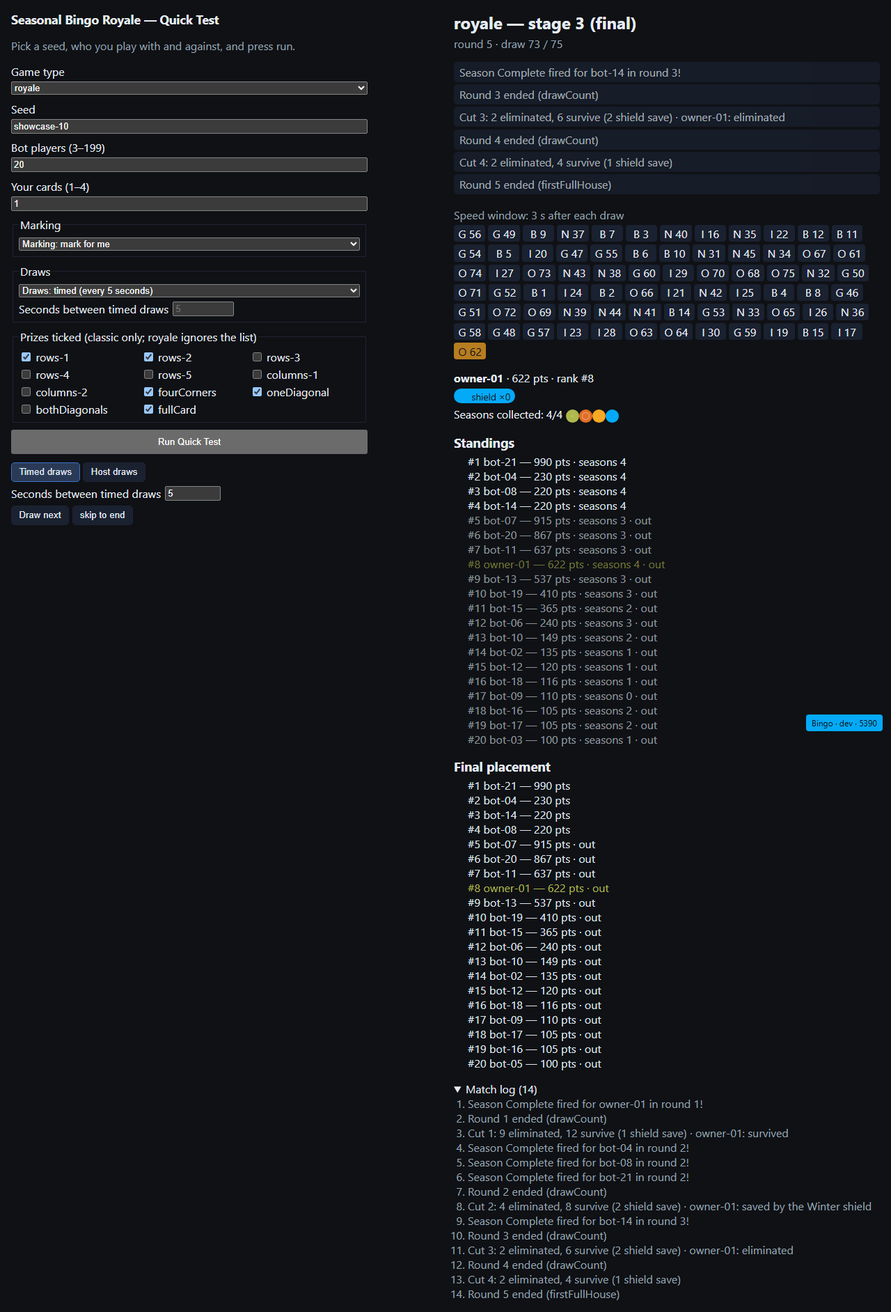
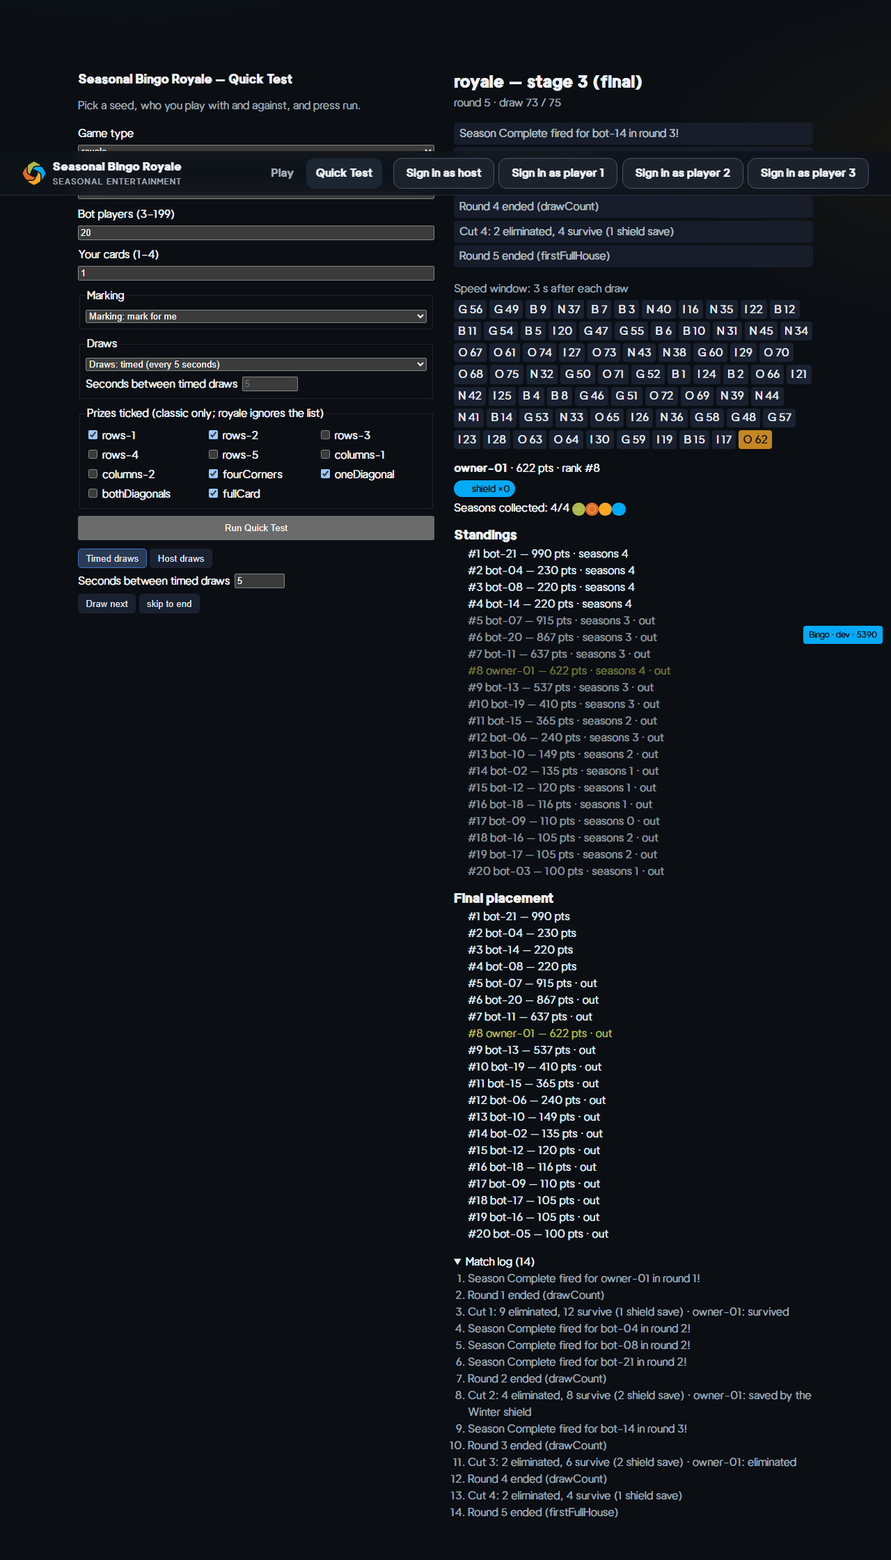
test: real-game play-through green (6 matches), reconnect test, Quick Test route; sheet
The real-game acceptance play-through passed for every game type with
timed and host draws: every screen consistent on every draw, cuts against
server points, ranks against the final placement, a fresh match after
each one. Screenshots in reports/screens/real-game/. The smoke test now
covers reconnect and resync. The Quick Test specs open #/quicktest (the
app shell's lobby is at /). Backlog part one lists the draft's remainder;
the morning sheet has every piece with evidence.

diff --git a/e2e/realGame.spec.ts b/e2e/realGame.spec.ts
@@ -8,7 +8,8 @@
  *                 draws; player 1 joins from the lobby and waits in the waiting room; the
  *                 host fills the match with bots and starts it; after the countdown both
  *                 screens show the same current number for every Draw next, and the player
- *                 sees the arena with standings.
+ *                 sees the arena with standings; offline for two draws, the player's screen
+ *                 catches up after reconnecting and keeps its marks.
  * Depends on:     @playwright/test, ./realGame
  * Spec:           docs/spec/12-testing-strategy.md §4 (journey 1, draft); docs/spec/15-implementation-plan.md WP-12, WP-13
  */
@@ -53,4 +54,25 @@ test('host and player share one live match', async ({ browser }) => {
     seen.push((await currentItem(player)) ?? -1);
   }
   await expect(player.getByTestId('standings').locator('li')).toHaveCount(6);
+
+  // Reconnect and resync (06 §1, §4): the player drops off while the host draws on; back
+  // online, the screen catches up with the same numbers and keeps the marks it had.
+  const markedBefore = await player
+    .locator('[data-testid^="owner-cell-"][data-marked="true"]')
+    .count();
+  await player.context().setOffline(true);
+  await drawNext(host);
+  await drawNext(host);
+  await player.context().setOffline(false);
+  const hostTicker = () => host.getByTestId('draw-ticker').locator(':scope > *').count();
+  await expect
+    .poll(async () => player.getByTestId('draw-ticker').locator(':scope > *').count(), {
+      timeout: 30_000,
+    })
+    .toBe(await hostTicker());
+  expect(await currentItem(player)).toBe(await currentItem(host));
+  const markedAfter = await player
+    .locator('[data-testid^="owner-cell-"][data-marked="true"]')
+    .count();
+  expect(markedAfter).toBeGreaterThanOrEqual(markedBefore);
 });

diff --git a/e2e/quickTest.ts b/e2e/quickTest.ts
@@ -45,7 +45,8 @@ const CATALOGUE = [
 ];
 
 export async function startRun(page: Page, settings: RunSettings): Promise<void> {
-  await page.goto('/');
+  // The Quick Test lives at #/quicktest in the app shell (development builds).
+  await page.goto('/#/quicktest');
   await page.getByTestId('game-type').selectOption(settings.gameType);
   await page.getByTestId('seed').fill(settings.seed);
   await page.getByTestId('bot-count').fill(String(settings.bots));

diff --git a/reports/night-2026-10-21.md b/reports/night-2026-10-21.md
@@ -67,37 +67,112 @@ experience, 8 host experience.
 | Intents with ack: match.watch / unwatch, mark, draw.next, draw.setMode (creator with match.manage)                            | › same tests: a player's draw.next is FORBIDDEN, the host's is accepted, a player's tap over the socket is accepted and the room receives `cellMarked`                                                                                                                                                               |
 | Replay protection (strictly growing seq), limits: 10 intents/s, marks 4/s, draw.next 2/s                                      | `apps/server/src/realtime/intents.ts`; › "drops a repeated seq, limits marks to 4 a second and watches at most 3 matches" — the red check for the replay rule was refused by the session's automatic permission check (it treats removing a security check as weakening security), so only the green run is evidence |
 
+### Piece 6 — design system and app shell (`feat/real-game-draft`)
+
+| Item                                                                                                                                                                                                                                   | Evidence                                                                                                                                                       |
+| -------------------------------------------------------------------------------------------------------------------------------------------------------------------------------------------------------------------------------------- | -------------------------------------------------------------------------------------------------------------------------------------------------------------- |
+| Tokens in `packages/ui` with the Seasonal Entertainment website's names and values (its `tokens.css` and `DESIGN.md`), dark default, light set, season colours, radius 12/20 px, hit target 44 px; the card as the hero (card colours) | `packages/ui/src/tokens.css`, `base.css`                                                                                                                       |
+| Luxora Grotesk from `assets/fonts`; the original season icons (unchanged files)                                                                                                                                                        | `packages/ui/src/fonts.css`; `apps/web/src/seasonIcons.ts`                                                                                                     |
+| WCAG AA contrast in both themes, text on season colours, card ink 7:1                                                                                                                                                                  | `apps/web/src/designTokens.test.ts` (red with a low-contrast muted colour)                                                                                     |
+| prefers-reduced-motion switches every animation off; key-moment animations (draw, mark, lift, season burst, Season Complete, win)                                                                                                      | `packages/ui/src/motion.css`; `designTokens.test.ts` › "switches every animation off under prefers-reduced-motion"                                             |
+| App shell: top bar, navigation (Play, Host a match with `match.create`, Quick Test in development), account, quick sign-in buttons "Sign in as host" / "Sign in as player 1/2/3" only in development                                   | `apps/web/src/shell/*`; `shell.test.tsx` › "offers the quick sign-in only in development" (red when always shown), "shows Host a match only with match.create" |
+| Responsive from phone width: player 3 plays at 390×844 in the real-game play-through                                                                                                                                                   | `reports/screens/real-game/*-player-3.jpg`                                                                                                                     |
+
+### Piece 7 — the player experience (`feat/real-game-draft`)
+
+| Item                                                                                                                                                                                                                                                                                          | Evidence                                                                                                                 |
+| --------------------------------------------------------------------------------------------------------------------------------------------------------------------------------------------------------------------------------------------------------------------------------------------- | ------------------------------------------------------------------------------------------------------------------------ |
+| Reuse: the live screens fold the server's view with the Quick Test's playback logic, card grid (B I N G O, sorted columns, season icons), ticker, standings, prize list, cut screen, final placement; the server's state route returns the Quick Test's view shape (shared `buildClientView`) | `apps/server/src/view/clientView.ts`; `apps/web/src/game/MatchScreen.tsx`                                                |
+| Lobby, join, waiting room with countdown                                                                                                                                                                                                                                                      | `apps/web/src/game/Lobby.tsx`, `WaitingRoom.tsx`; `e2e/realGame.spec.ts` › "host and player share one live match"        |
+| Live match: current number large with letter, recent numbers, own cards, taps with the speed window bar and feedback, missed-number rule as created, own score, rank, effects, seasons, shield, standings (active first), prizes for classic types, cut screen, spectator note, final ranking | `e2e/acceptance/realGame.spec.ts` (6 matches, see below); `apps/web/src/game/liveGame.test.tsx` (card refusals, intents) |
+| Reconnect and resync without losing marks                                                                                                                                                                                                                                                     | `e2e/realGame.spec.ts` (offline for two draws: the screen catches up, marks kept)                                        |
+| Fresh state: nothing of a previous match survives                                                                                                                                                                                                                                             | real-game play-through: a second match right after each match starts with a clean card, 0 points, no cut screen          |
+
+### Piece 8 — the host experience (`feat/real-game-draft`)
+
+| Item                                                                                                                                                                                                                                                | Evidence                                                                                                                                                                                                                 |
+| --------------------------------------------------------------------------------------------------------------------------------------------------------------------------------------------------------------------------------------------------- | ------------------------------------------------------------------------------------------------------------------------------------------------------------------------------------------------------------------------ |
+| Create a match from a published default ruleset: game type, prizes (defaults ticked), draws timed with seconds or host, missed numbers after N seconds or left open, leaderboard switch, max players, start rule (host starts, 10-second countdown) | `apps/web/src/host/CreateMatch.tsx` (the Quick Test's draw and missed-number fields reused); play-through creates every game type through this form                                                                      |
+| Lobby view with joined players, "Fill with N bots" (development), Start                                                                                                                                                                             | `apps/web/src/host/HostConsole.tsx`; play-through                                                                                                                                                                        |
+| Live console: big Draw next (Space key), disabled while a window is open or a press is pending; timed/host switch and seconds at any time; current and recent numbers; standings; prizes; cut results in the match log; abort with reason           | `HostDrawControls.tsx`; `liveGame.test.tsx` › "is disabled right after a press until the new draw has arrived" (red without the guard); the royale timed run switches mid-match; every fresh-state match ends with Abort |
+| Pause                                                                                                                                                                                                                                               | applies to asynchronous matches only (11 §3.2); realtime draft has none — backlog                                                                                                                                        |
+
+### Real-game acceptance play-through (all green, 6 matches, 52.5 min)
+
+Host plus players 1–3 (player 3 at 390×844), 20 players with bots, fixed per run. On every draw every player screen showed the host's number, each player's points equalled their standings row, no mark sat on an undrawn number, and the missed-number rule held; at the end every cut matched server points and every rank equalled the final place; a fresh match followed each one.
+
+| Match                                              | Draws | Cuts checked | Notes                                                                                                    |
+| -------------------------------------------------- | ----- | ------------ | -------------------------------------------------------------------------------------------------------- |
+| royale, timed 4 s, switches to host draws and back | 228   | 4            | missed numbers reached the screen 3.3–4.8 s after the draw (server marks at 3 s plus the client's fetch) |
+| royale, host draws, leave open                     | 223   | 4            | missed numbers stayed open                                                                               |
+| classicSeasons, timed, leave open                  | 73    | —            | default prizes                                                                                           |
+| classicSeasons, host draws, mark after 3 s         | 68    | —            | 3.2–4.3 s                                                                                                |
+| classic, timed, mark after 3 s, fullCard only      | 67    | —            | 3.6–4.7 s                                                                                                |
+| classic, host draws, leave open, fullCard only     | 66    | —            |                                                                                                          |
+
+D10 in the real game: 12 marks by players landed on a round's last number before that round ended (5 of them taps in the leave-open matches, where nothing is marked for the player). Screenshots of every player and the host at start, mid-match, the first cut and the end: `reports/screens/real-game/`.
+
+### Found by the real-game play-through
+
+| #   | What happened                                                                          | Cause                                                                                                                                                             | Fix                                                                                | Test                                                                                                                |
+| --- | -------------------------------------------------------------------------------------- | ----------------------------------------------------------------------------------------------------------------------------------------------------------------- | ---------------------------------------------------------------------------------- | ------------------------------------------------------------------------------------------------------------------- |
+| 1   | A player's screen froze in the waiting room ("Players 2 / 20") and never saw the start | the gateway ran a socket's intents concurrently; an unwatch sent right before a watch (React mounts twice in development) left the room after the watch joined it | intents of one socket run in arrival order (`apps/server/src/realtime/inOrder.ts`) | `inOrder.test.ts` › "finishes a slow earlier call before a fast later one starts" (red when calls run concurrently) |
+| 2   | The host pressed Draw next 8 times, 4 draws happened, "DRAW_NOT_ALLOWED" showed        | the button stayed enabled until the new draw arrived, so a second press landed inside the new number's open window                                                | Draw next is disabled after a press until the draw has arrived                     | `liveGame.test.tsx` › "is disabled right after a press until the new draw has arrived" (red without the guard)      |
+
 ## NOT DONE
 
-_Nothing yet._
+- **Register and sign-in forms** in the client: the server routes exist and are tested, but the draft client offers only the development quick sign-in (and sign-out). Backlog part one.
+- **Pause** (asynchronous matches only), **start rules by time or when full**, visibility, series, choosing a ruleset version: backlog part one.
+- **Replay-rule red check** (piece 5): the session's automatic permission check refused the temporary removal of the replay check; the rule is covered by a green test only.
+- **Admin app**, chat, sounds, leaderboards, profiles, async away summary: not part of this draft; backlog.
 
 ## RUNNING
 
-- Piece 6 (design system and app shell) on `feat/real-game-draft`.
+_Nothing. The dev stack runs on `feat/real-game-draft`._
 
 ## OPEN
 
 - Piece 1 — Quick Test completion: done
 - Piece 2 — merge the Quick Test: done
-- Piece 3 — WP-09 accounts and sessions: done (the quick sign-in buttons come with the app shell, piece 6)
+- Piece 3 — WP-09 accounts and sessions: done
 - Piece 4 — WP-10 persistence and scheduler: done
 - Piece 5 — WP-11 WebSocket gateway: done
-- Piece 6 — design system and app shell: running
-- Piece 7 — player experience: open
-- Piece 8 — host experience: open
+- Piece 6 — design system and app shell: done
+- Piece 7 — player experience: done (draft depth; register/sign-in forms open)
+- Piece 8 — host experience: done (draft depth; pause and start rules open)
 
 ## NEEDS THE OWNER'S WORD
 
-- **Shortest timed draws in the Quick Test** are now the speed window plus one second (4 s with the 3 s default window), so a window always closes before the next draw (D10). The ruleset already requires the window to be shorter than the draw interval; the extra second is a choice.
-- **A missed number of a round's last draw** under "mark for me after 3 seconds" is marked at the moment the window closes; the server counts it (inclusive), and the Quick Test card may show the round end first.
-- `docs/OPEN.md` said WP-09 was on a branch `feat/wp-09-accounts`; no such branch exists. Corrected.
-- **Pre-session calls without a CSRF token**: register, login, guest and dev sign-in cannot carry the per-session token yet; they accept only JSON bodies, which no cross-site form can send. Written into 03 §8.
-- **Dev cookie**: on plain-http development the cookie is `sbr_session` without Secure; production uses `__Host-sbr_session` with Secure, as 03 §3 says.
-
-- **Match persistence at draft depth**: rounds, cards, draws and prize awards stay in the event log (their own tables are backlog); the match stores its frozen ruleset document instead of a ruleset version id (versions come with the admin panel); manual marks go through the aggregate instead of the off-aggregate path of 02 §5.4 (fine for 20 players, backlog for 200).
+- **Shortest timed draws** are the speed window plus one second (4 s with the 3 s window), in the Quick Test and the real game, so a window always closes before the next draw (D10). The ruleset already requires the window to be shorter than the draw interval; the extra second is a choice.
+- **A missed number of a round's last draw** under "mark after 3 seconds" is marked at the moment the window closes; the server counts it (inclusive).
+- **Host Draw next waits for the window**: refused while the previous number's speed window is open, so windows never overlap.
 - **Pause between rounds**: 6 seconds after a round ends (cut screen) before the next round starts; not in the spec.
-- **Host Draw next waits for the window**: a host draw is refused while the previous draw's speed window is open, so windows never overlap (D10).
+- **Start rule**: the host starts the match; players see a 10-second countdown. Time-based and when-full starts are backlog.
+- **Match persistence at draft depth**: rounds, cards, draws and prize awards stay in the event log; the match stores its frozen ruleset document instead of a ruleset version id; manual marks go through the match aggregate rather than the separate path of 02 §5.4 (fine for 20 players, to revisit for 200).
+- **The live screen refetches the view on every event frame** (only the new events, plus the players and owner status); fine for 20 players, heavier for 200.
+- **Pre-session calls without a CSRF token**: register, login, guest and dev sign-in accept only JSON bodies (no cross-site form can send JSON). Written into 03 §8.
+- **Dev cookie**: `sbr_session` without Secure on plain-http development; production uses `__Host-sbr_session` with Secure (03 §3).
+- **A stray dev server on 5173**: during the night an older Vite process restarted itself after a config change and came back on 5173 (a forbidden port); it was stopped and the client restarted on 5390. The config keeps `strictPort` on 5390.
+- `docs/OPEN.md` said WP-09 was on a branch `feat/wp-09-accounts`; no such branch existed. Corrected.
 
 ## FOR THE OWNER
 
-_Written at the end of the night._
+**The game runs at http://localhost:5390** (branch `feat/real-game-draft`, not merged; the Quick Test is merged into `master`).
+
+**Try it alone**
+
+1. Open http://localhost:5390 in a normal window. Press **Sign in as host**, then **Host a match** in the top bar.
+2. Choose a game type (royale, classic with seasons, or classic), the prizes for classic games, how numbers are drawn (**Draws: timed (every N seconds)** or **Draws: host presses Draw next**) and what happens to missed numbers. Press **Create match**. You land on the host console with the match code.
+3. Open one or two **private windows** (each private window is a separate person). In each, press **Sign in as player 1** (or 2, 3), find the match in the lobby and press **Join**. You see the waiting room.
+4. Back in the host window: **Fill with bots** (bots mark automatically) and **Start match**. Players see a 10-second countdown, then the arena.
+5. With host draws, press **Draw next** (or the Space key). It opens again when the last number's 3-second speed window has closed. You can switch between **Timed draws** and **Host draws** and change the seconds at any time.
+
+You can also play without players: create a match, fill it with bots, start it, and watch from the host console.
+
+**On the player screen**: the current number large with its letter, a bar that runs down for the 3-second speed window, the numbers drawn so far, your card (tap a number when it is drawn; a tap inside the window earns a speed bonus; the last number of a round can still be tapped inside its window), your points, rank, effects, seasons and shield, the standings with players still in the match first, the prize list in classic games, the cut screen, and the final ranking.
+
+**On the host console**: the joined players before the start, then the current and recent numbers, Draw next, the draw switch, the standings, the prizes awarded, the match log with cut results, and Abort with a reason.
+
+**The Quick Test** now lives at http://localhost:5390/#/quicktest (link "Quick Test" in the top bar).
+
+**Not done and open questions**: see NOT DONE and NEEDS THE OWNER'S WORD above. Most visible: there are no register or sign-in forms yet (only the development sign-in buttons), and pause and start rules by time are not built.

diff --git a/docs/BACKLOG.md b/docs/BACKLOG.md
@@ -9,6 +9,7 @@ The authoritative list. `OPEN.md` is the short page over it and is aligned after
 - WP-08 … WP-30 (docs/spec/15-implementation-plan.md) — not started
 - Realtime classic rounds: rule for players still tapping when a prize is decided on a draw (to be decided with the owner before WP-12)
 - WP-09 remainder: e-mail verification flow (tokens, Mailpit), TOTP 2FA and recovery codes, password reset, session list and revoke (`/me/sessions`), the bundled top-100k breached-password list, admin session lifetimes; flags `SBR_FEATURE_EMAIL_VERIFICATION` / `SBR_FEATURE_TWO_FACTOR` stay off until then
+- Real game, first-draft remainder (WP-12 to WP-14): register and sign-in forms in the client (the server routes exist; the draft has only the development quick sign-in), guest watching from the shell, chat, sounds, asynchronous matches and pause, start rules by time or when full, visibility and series, choosing a ruleset version, the admin app (`apps/admin`), leaderboards and profiles, the away summary
 - WP-11 remainder: zod message schemas in `packages/contracts/ws`, the `/admin` namespace and dashboard ticks, per-player rooms (`match:<id>:player:<accountId>`), batched `standings.delta`, socket and IP caps (06 §8), revocation push on logout (06 §2.3), Redis adapter
 - WP-10 remainder (first draft keeps them in the event log or simplified): tables `rounds`, `cards`, `draws`, `prize_awards` as read models; `ruleset_version_id` once rulesets are versioned (WP-20; the draft stores the frozen ruleset document); manual marks off the aggregate path (02 §5.4: recorded in `marks` and folded at the next draw); seed reveal and `/verify` after finish; `last_seen_event_seq` and the away summary
 
